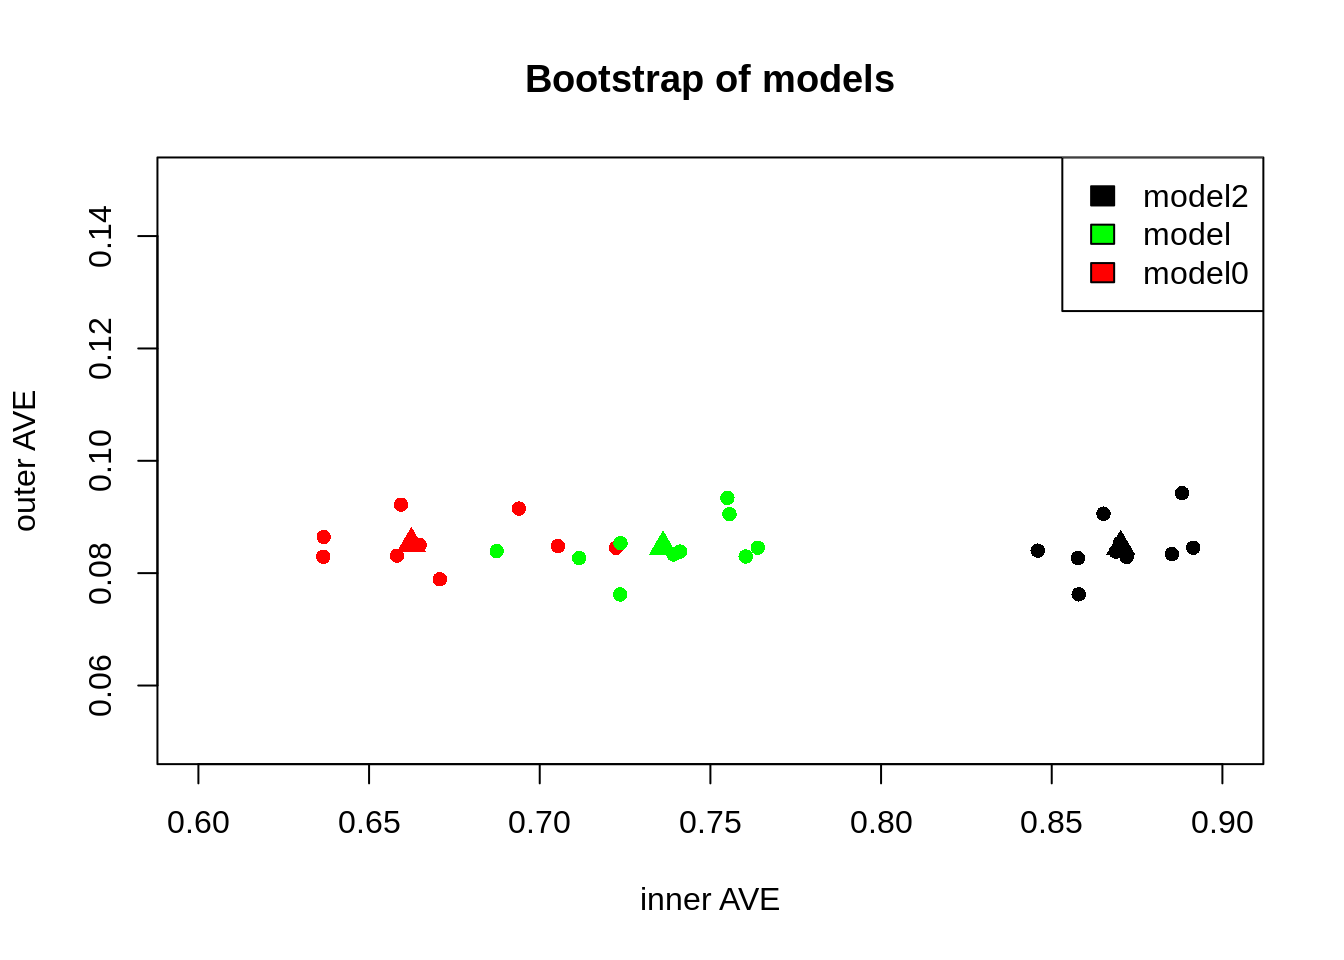
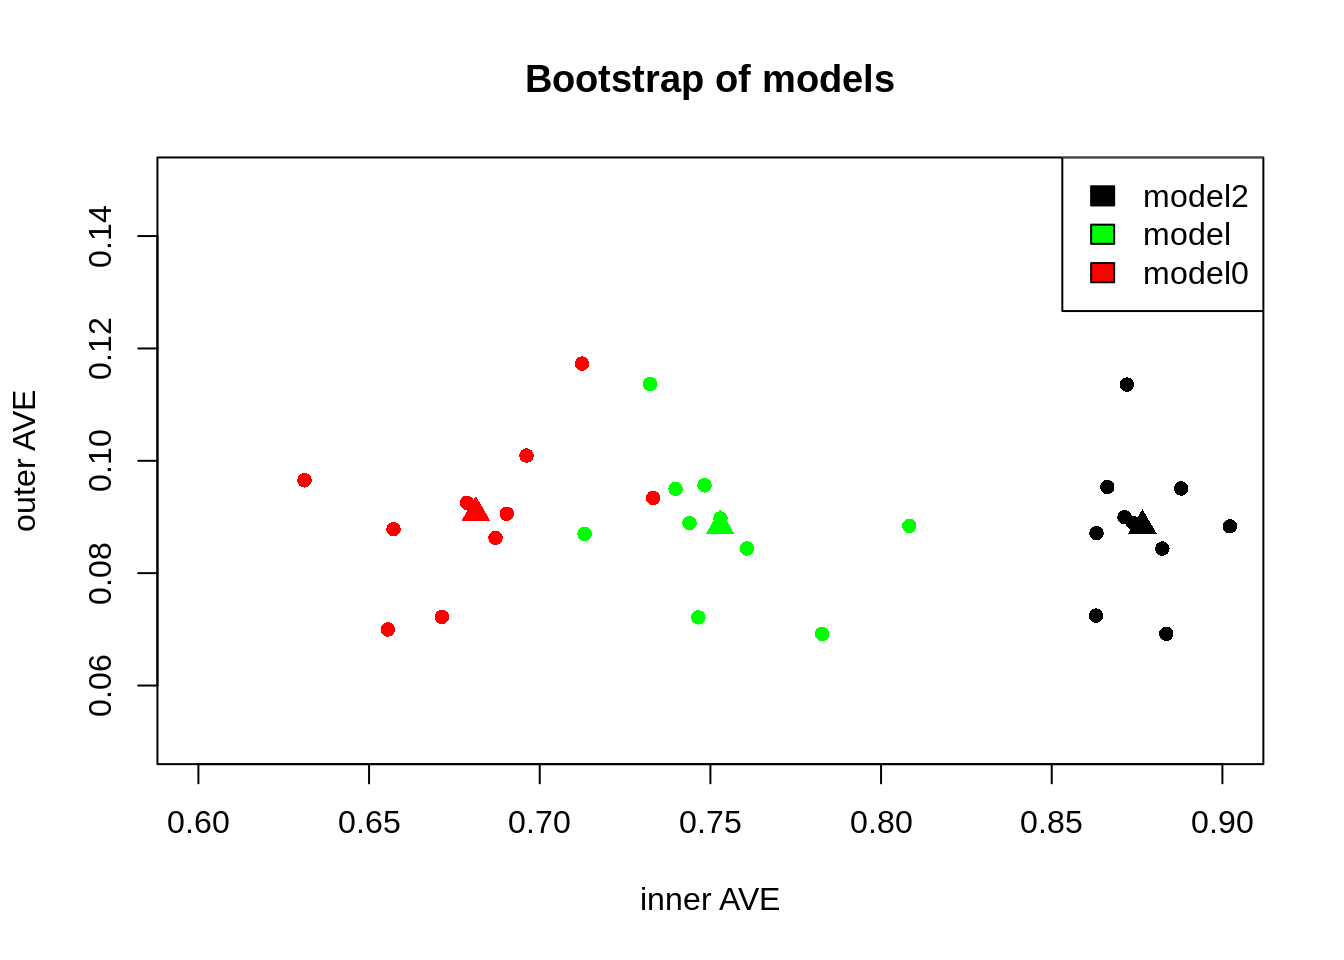
Built site for inteRmodel: 0.1.1@00c8be7

diff --git a/articles/inteRmodel.html b/articles/inteRmodel.html
@@ -194,11 +194,7 @@ Figure 2: Histogram of the different inner AVE values of the same model but with
 <a href="#evaluate-stability" class="anchor"></a><span class="header-section-number">3.4</span> Evaluate stability</h2>
 <p>A next step would be to see if some models are better than the others, something along these lines but with more iterations.</p>
 <div class="sourceCode" id="cb8"><pre class="downlit">
-<span class="kw">iterations</span> <span class="op">&lt;-</span> <span class="fl">10</span>
-<span class="kw">index</span> <span class="op">&lt;-</span> <span class="fu"><a href="https://rdrr.io/r/base/vector.html">vector</a></span>(<span class="st">"list"</span>, length = <span class="kw">iterations</span>)
-<span class="co">for</span> (<span class="kw">i</span> <span class="co">in</span> <span class="fu"><a href="https://rdrr.io/r/base/seq.html">seq_len</a></span>(<span class="kw">iterations</span>)) {
-  <span class="kw">index</span>[[<span class="kw">i</span>]] <span class="op">&lt;-</span> <span class="fu"><a href="https://rdrr.io/r/base/sample.html">sample</a></span>(<span class="fu"><a href="https://rdrr.io/r/base/nrow.html">nrow</a></span>(<span class="kw">A</span>[[<span class="fl">1</span>]]), replace = <span class="fl">TRUE</span>)
-}
+<span class="kw">index</span> <span class="op">&lt;-</span> <span class="fu"><a href="../reference/boot_index.html">boot_index</a></span>(<span class="fu"><a href="https://rdrr.io/r/base/nrow.html">nrow</a></span>(<span class="kw">A</span>[[<span class="fl">1</span>]]), <span class="fl">10</span>)
 <span class="kw">bs0</span> <span class="op">&lt;-</span> <span class="fu"><a href="../reference/boot_samples_sgcca.html">boot_index_sgcca</a></span>(<span class="kw">index</span>, A = <span class="kw">A</span>, C = <span class="kw">model0</span>, c1 = <span class="fu"><a href="https://rdrr.io/r/base/c.html">c</a></span>(<span class="fl">.071</span>,<span class="fl">.2</span>, <span class="fl">1</span>))
 <span class="kw">bs1</span> <span class="op">&lt;-</span> <span class="fu"><a href="../reference/boot_samples_sgcca.html">boot_index_sgcca</a></span>(<span class="kw">index</span>, A = <span class="kw">A</span>, C = <span class="kw">model</span>, c1 = <span class="fu"><a href="https://rdrr.io/r/base/c.html">c</a></span>(<span class="fl">.071</span>,<span class="fl">.2</span>, <span class="fl">1</span>))
 <span class="kw">bs2</span> <span class="op">&lt;-</span> <span class="fu"><a href="../reference/boot_samples_sgcca.html">boot_index_sgcca</a></span>(<span class="kw">index</span>, A = <span class="kw">A</span>, C = <span class="kw">model2</span>, c1 = <span class="fu"><a href="https://rdrr.io/r/base/c.html">c</a></span>(<span class="fl">.071</span>,<span class="fl">.2</span>, <span class="fl">1</span>))
@@ -248,12 +244,12 @@ Figure 3: Comparison of the models, our null hypothesis along the model with hig
 <span class="fu"><a href="https://rdrr.io/r/graphics/plot.default.html">plot</a></span>(<span class="kw">m0</span><span class="op">$</span><span class="kw">Y</span>[[<span class="fl">1</span>]][, <span class="fl">1</span>], <span class="kw">m0</span><span class="op">$</span><span class="kw">Y</span>[[<span class="fl">2</span>]][, <span class="fl">1</span>], type = <span class="st">"n"</span>, xlab = <span class="st">"Block1 Comp1"</span>, 
      ylab = <span class="st">"Block2 Comp1"</span>, main = <span class="st">"Initial model"</span>)
 <span class="fu"><a href="https://rdrr.io/r/graphics/abline.html">abline</a></span>(h = <span class="fl">0</span>, v = <span class="fl">0</span>)
-<span class="fu"><a href="https://rdrr.io/r/graphics/text.html">text</a></span>(<span class="kw">m0</span><span class="op">$</span><span class="kw">Y</span>[[<span class="fl">1</span>]][, <span class="fl">1</span>], <span class="kw">m0</span><span class="op">$</span><span class="kw">Y</span>[[<span class="fl">2</span>]][, <span class="fl">1</span>], labels = <span class="kw">Loc</span>, col = <span class="fu"><a href="https://rdrr.io/r/base/numeric.html">as.numeric</a></span>(<span class="kw">Loc</span>)<span class="op">+</span><span class="fl">1</span>)
+<span class="fu"><a href="https://rdrr.io/r/graphics/text.html">text</a></span>(<span class="kw">m0</span><span class="op">$</span><span class="kw">Y</span>[[<span class="fl">1</span>]][, <span class="fl">1</span>], <span class="kw">m0</span><span class="op">$</span><span class="kw">Y</span>[[<span class="fl">2</span>]][, <span class="fl">1</span>], labels = <span class="kw">Loc</span>, col = <span class="fu"><a href="https://rdrr.io/r/base/numeric.html">as.numeric</a></span>(<span class="kw">Loc</span>) <span class="op">+</span> <span class="fl">1</span>)
 
 <span class="fu"><a href="https://rdrr.io/r/graphics/plot.default.html">plot</a></span>(<span class="kw">m2</span><span class="op">$</span><span class="kw">Y</span>[[<span class="fl">1</span>]][, <span class="fl">1</span>], <span class="kw">m2</span><span class="op">$</span><span class="kw">Y</span>[[<span class="fl">2</span>]][, <span class="fl">1</span>], type = <span class="st">"n"</span>, xlab = <span class="st">"Block1 Comp1"</span>, 
      ylab = <span class="st">"Block2 Comp1"</span>, main = <span class="st">"Final model"</span>)
 <span class="fu"><a href="https://rdrr.io/r/graphics/abline.html">abline</a></span>(h = <span class="fl">0</span>, v = <span class="fl">0</span>)
-<span class="fu"><a href="https://rdrr.io/r/graphics/text.html">text</a></span>(<span class="kw">m2</span><span class="op">$</span><span class="kw">Y</span>[[<span class="fl">1</span>]][, <span class="fl">1</span>], <span class="kw">m2</span><span class="op">$</span><span class="kw">Y</span>[[<span class="fl">2</span>]][, <span class="fl">1</span>], labels = <span class="kw">Loc</span>, col = <span class="fu"><a href="https://rdrr.io/r/base/numeric.html">as.numeric</a></span>(<span class="kw">Loc</span>)<span class="op">+</span><span class="fl">1</span>)
+<span class="fu"><a href="https://rdrr.io/r/graphics/text.html">text</a></span>(<span class="kw">m2</span><span class="op">$</span><span class="kw">Y</span>[[<span class="fl">1</span>]][, <span class="fl">1</span>], <span class="kw">m2</span><span class="op">$</span><span class="kw">Y</span>[[<span class="fl">2</span>]][, <span class="fl">1</span>], labels = <span class="kw">Loc</span>, col = <span class="fu"><a href="https://rdrr.io/r/base/numeric.html">as.numeric</a></span>(<span class="kw">Loc</span>) <span class="op">+</span> <span class="fl">1</span>)
 </pre></div>
 <div class="figure">
 <img src="inteRmodel_files/figure-html/m1-1.png" alt="Figure 4: Differences on the canonical dimensions of the samples" width="672"><p class="caption">
@@ -309,8 +305,8 @@ Figure 5: Comparison of the weights of the CGH variables
 <span class="co">#&gt; [1] inteRmodel_0.1.1     knitcitations_1.0.10</span>
 <span class="co">#&gt; </span>
 <span class="co">#&gt; loaded via a namespace (and not attached):</span>
-<span class="co">#&gt;  [1] Rcpp_1.0.5        knitr_1.30        xml2_1.3.2        magrittr_1.5     </span>
-<span class="co">#&gt;  [5] MASS_7.3-51.6     lattice_0.20-41   R6_2.5.0          rlang_0.4.8      </span>
+<span class="co">#&gt;  [1] Rcpp_1.0.5        knitr_1.30        xml2_1.3.2        magrittr_2.0.1   </span>
+<span class="co">#&gt;  [5] MASS_7.3-51.6     lattice_0.20-41   R6_2.5.0          rlang_0.4.9      </span>
 <span class="co">#&gt;  [9] bibtex_0.4.2.3    stringr_1.4.0     httr_1.4.2        highr_0.8        </span>
 <span class="co">#&gt; [13] plyr_1.8.6        tools_4.0.2       grid_4.0.2        xfun_0.19        </span>
 <span class="co">#&gt; [17] RGCCA_2.1.2       htmltools_0.5.0   yaml_2.2.1        digest_0.6.27    </span>
@@ -322,7 +318,9 @@ Figure 5: Comparison of the weights of the CGH variables
 <div id="bibliography" class="section level1">
 <h1 class="hasAnchor">
 <a href="#bibliography" class="anchor"></a><span class="header-section-number">6</span> Bibliography</h1>
-<p>[1] A. Tenenhaus and M. Tenenhaus. “Regularized Generalized Canonical Correlation Analysis”. In: <em>Psychometrika</em> 76.2 (Mar. 2011), pp. 257-284. DOI: 10.1007/s11336-011-9206-8. &lt;URL: <a href="https://doi.org/10.1007/s11336-011-9206-8" class="uri">https://doi.org/10.1007/s11336-011-9206-8</a>&gt;.</p>
+<p>
+<a id="bib-Tenenhaus_2011"></a><a href="#cite-Tenenhaus_2011">[1]</a><cite> A. Tenenhaus and M. Tenenhaus. “Regularized Generalized Canonical Correlation Analysis”. In: <em>Psychometrika</em> 76.2 (Mar. 2011), pp. 257–284. DOI: <a href="https://doi.org/10.1007/s11336-011-9206-8">10.1007/s11336-011-9206-8</a>. URL: <a href="https://doi.org/10.1007/s11336-011-9206-8">https://doi.org/10.1007/s11336-011-9206-8</a>.</cite>
+</p>
 </div>
   </div>
 

diff --git a/reference/boot_index.html b/reference/boot_index.html
@@ -6,7 +6,7 @@
 <meta http-equiv="X-UA-Compatible" content="IE=edge">
 <meta name="viewport" content="width=device-width, initial-scale=1.0">
 
-<title>Function reference • inteRmodel</title>
+<title>Create index for the samples — boot_index • inteRmodel</title>
 
 
 <!-- jquery -->
@@ -39,7 +39,9 @@
 
 
 
-<meta property="og:title" content="Function reference" />
+<meta property="og:title" content="Create index for the samples — boot_index" />
+<meta property="og:description" content="Helper function for the easy creation of an index to bootstrap.
+Each element has the same number of samples." />
 
 
 
@@ -58,7 +60,7 @@
   </head>
 
   <body data-spy="scroll" data-target="#toc">
-    <div class="container template-reference-index">
+    <div class="container template-reference-topic">
       <header>
       <div class="navbar navbar-default navbar-fixed-top" role="navigation">
   <div class="container">
@@ -108,126 +110,52 @@
       </header>
 
 <div class="row">
-  <div class="contents col-md-9">
+  <div class="col-md-9 contents">
     <div class="page-header">
-      <h1>Reference</h1>
+    <h1>Create index for the samples</h1>
+    <small class="dont-index">Source: <a href='https://github.com/llrs/inteRmodel/blob/master/R/boot_rgcca.R'><code>R/boot_rgcca.R</code></a></small>
+    <div class="hidden name"><code>boot_index.Rd</code></div>
     </div>
 
-    <table class="ref-index">
+    <div class="ref-description">
+    <p>Helper function for the easy creation of an index to bootstrap.
+Each element has the same number of samples.</p>
+    </div>
 
-    <colgroup>
-      
-      <col class="alias" />
-      <col class="title" />
-    </colgroup>
+    <pre class="usage"><span class='fu'>boot_index</span>(<span class='kw'>samples</span>, <span class='kw'>boots</span>)</pre>
 
-    <tbody>
-      <tr>
-        <th colspan="2">
-          <h2 id="section-all-functions" class="hasAnchor"><a href="#section-all-functions" class="anchor"></a>All functions</h2>
-          <p class="section-desc"></p>
-        </th>
-      </tr>
-      
-      
-    </tbody><tbody>
-      
-      
-      <tr>
-        
-        <td>
-          <p><code><a href="analyze.html">analyze()</a></code> </p>
-        </td>
-        <td><p>Analyze a sgcca object</p></td>
-      </tr><tr>
-        
-        <td>
-          <p><code><a href="aves.html">aves()</a></code> </p>
-        </td>
-        <td><p>Method to simplify AVE</p></td>
-      </tr><tr>
-        
-        <td>
-          <p><code><a href="boot.html">boot_samples_sgcca()</a></code> <code><a href="boot.html">boot_index_sgcca()</a></code> </p>
-        </td>
-        <td><p>Bootstrap sgcca</p></td>
-      </tr><tr>
-        
-        <td>
-          <p><code><a href="boot_index.html">boot_index()</a></code> </p>
-        </td>
-        <td><p>Create index for the samples</p></td>
-      </tr><tr>
-        
-        <td>
-          <p><code><a href="cca_rgcca.html">cca_rgcca()</a></code> </p>
-        </td>
-        <td><p>Canonical correlations and covariates</p></td>
-      </tr><tr>
-        
-        <td>
-          <p><code><a href="correct.html">correct()</a></code> </p>
-        </td>
-        <td><p>Check that the design is fully connected</p></td>
-      </tr><tr>
-        
-        <td>
-          <p><code><a href="ge_cgh_locIGR.html">ge_cgh_locIGR</a></code> </p>
-        </td>
-        <td><p>Data from GE CGH and location</p></td>
-      </tr><tr>
-        
-        <td>
-          <p><code><a href="improve.html">improve()</a></code> </p>
-        </td>
-        <td><p>Improve the information on sgcca classes</p></td>
-      </tr><tr>
-        
-        <td>
-          <p><code><a href="looIndex.html">looIndex()</a></code> </p>
-        </td>
-        <td><p>Indexes without one sample</p></td>
-      </tr><tr>
-        
-        <td>
-          <p><code><a href="model.html">iterate_model()</a></code> <code><a href="model.html">search_model()</a></code> </p>
-        </td>
-        <td><p>Functions related to finding models</p></td>
-      </tr><tr>
-        
-        <td>
-          <p><code><a href="model_RGCCA.html">model_RGCCA()</a></code> </p>
-        </td>
-        <td><p>Prepare metadata data for RGCCA.</p></td>
-      </tr><tr>
-        
-        <td>
-          <p><code><a href="subSymm.html">subSymm()</a></code> </p>
-        </td>
-        <td><p>Substitute in a symmetric matrix</p></td>
-      </tr><tr>
-        
-        <td>
-          <p><code><a href="subsetData.html">subsetData()</a></code> </p>
-        </td>
-        <td><p>Subset a list</p></td>
-      </tr><tr>
-        
-        <td>
-          <p><code><a href="symm.html">symm()</a></code> </p>
-        </td>
-        <td><p>Create symmetric matrix</p></td>
-      </tr><tr>
-        
-        <td>
-          <p><code><a href="weight_design.html">weight_design()</a></code> </p>
-        </td>
-        <td><p>Create design matrices with different weights</p></td>
-      </tr>
-    </tbody>
+    <h2 class="hasAnchor" id="arguments"><a class="anchor" href="#arguments"></a>Arguments</h2>
+    <table class="ref-arguments">
+    <colgroup><col class="name" /><col class="desc" /></colgroup>
+    <tr>
+      <th>samples</th>
+      <td><p>A numeric value of samples.</p></td>
+    </tr>
+    <tr>
+      <th>boots</th>
+      <td><p>A numeric value of bootstraps you want.</p></td>
+    </tr>
     </table>
-  </div>
 
+    <h2 class="hasAnchor" id="value"><a class="anchor" href="#value"></a>Value</h2>
+
+    <p>A list of length [boots] with indices for the samples.</p>
+    <h2 class="hasAnchor" id="see-also"><a class="anchor" href="#see-also"></a>See also</h2>
+
+    <div class='dont-index'><p>[boot_index_sgcca()]</p></div>
+
+    <h2 class="hasAnchor" id="examples"><a class="anchor" href="#examples"></a>Examples</h2>
+    <pre class="examples"><div class='input'><span class='fu'>boot_index</span>(<span class='fl'>10</span>, <span class='fl'>3</span>)
+</div><div class='output co'>#&gt; [[1]]
+#&gt;  [1]  7  5  6  8  7  6 10  8  2  2
+#&gt; 
+#&gt; [[2]]
+#&gt;  [1]  5  5 10  3  5  2  4  9  9  4
+#&gt; 
+#&gt; [[3]]
+#&gt;  [1]  4  8  3  5  7  5 10  6  7 10
+#&gt; </div></pre>
+  </div>
   <div class="col-md-3 hidden-xs hidden-sm" id="pkgdown-sidebar">
     <nav id="toc" data-toggle="toc" class="sticky-top">
       <h2 data-toc-skip>Contents</h2>

diff --git a/reference/boot.html b/reference/boot.html
@@ -156,9 +156,12 @@ input blocks; and the AVE values, both inner, and outer</p>
     <h2 class="hasAnchor" id="details"><a class="anchor" href="#details"></a>Details</h2>
 
     <p><code>boot_index_sgcca</code> Iterate over the index,
-which is a list of vectors with the position of samples to use and use sgcca
+which is a list of vectors with the position of samples to use and use [sgcca]
 with the arguments provided.
-<code>boot_samples_sgcca</code> Iterate over random samples.</p>
+<code>boot_samples_sgcca</code> Iterate over random samples without recording which samples where used.</p>
+    <h2 class="hasAnchor" id="note"><a class="anchor" href="#note"></a>Note</h2>
+
+    <p>Recommended to provide scaled data and the argument [scale = FALSE]</p>
 
     <h2 class="hasAnchor" id="examples"><a class="anchor" href="#examples"></a>Examples</h2>
     <pre class="examples"><div class='input'><span class='fu'><a href='https://rdrr.io/r/utils/data.html'>data</a></span>(<span class='st'>"Russett"</span>, package = <span class='st'>"RGCCA"</span>)
@@ -177,10 +180,7 @@ with the arguments provided.
 #&gt; [4,] 0.4755541 0.6865155
 #&gt; [5,] 0.3604672 0.6768108
 #&gt; [6,] 0.3914483 0.6850278</div><div class='input'><span class='kw'>boots</span> <span class='op'>&lt;-</span> <span class='fl'>10</span>
-<span class='kw'>index</span> <span class='op'>&lt;-</span> <span class='fu'><a href='https://rdrr.io/r/base/vector.html'>vector</a></span>(<span class='st'>"list"</span>, length = <span class='kw'>boots</span>)
-<span class='co'>for</span> (<span class='kw'>i</span> <span class='co'>in</span> <span class='fu'><a href='https://rdrr.io/r/base/seq.html'>seq_len</a></span>(<span class='kw'>boots</span>)) {
-  <span class='kw'>index</span>[[<span class='kw'>i</span>]] <span class='op'>&lt;-</span> <span class='fu'><a href='https://rdrr.io/r/base/sample.html'>sample</a></span>(<span class='fu'><a href='https://rdrr.io/r/base/nrow.html'>nrow</a></span>(<span class='kw'>A</span>[[<span class='fl'>1</span>]]), replace = <span class='fl'>TRUE</span>)
-}
+<span class='kw'>index</span> <span class='op'>&lt;-</span> <span class='fu'><a href='boot_index.html'>boot_index</a></span>(<span class='fu'><a href='https://rdrr.io/r/base/nrow.html'>nrow</a></span>(<span class='kw'>A</span>[[<span class='fl'>1</span>]]), <span class='kw'>boots</span>)
 <span class='kw'>boot_i</span> <span class='op'>&lt;-</span> <span class='fu'>boot_index_sgcca</span>(<span class='kw'>index</span>, A = <span class='kw'>A</span>, C = <span class='kw'>C</span>)
 </div></pre>
   </div>

diff --git a/reference/subsetData.html b/reference/subsetData.html
@@ -149,17 +149,17 @@ remove the variables that are constant.</p>
 <span class='kw'>A</span> <span class='op'>&lt;-</span> <span class='fu'>subsetData</span>(<span class='kw'>ge_cgh_locIGR</span><span class='op'>$</span><span class='kw'>multiblocks</span>, <span class='fu'><a href='https://rdrr.io/r/base/sample.html'>sample</a></span>(<span class='fl'>53</span>, replace = <span class='fl'>TRUE</span>))
 <span class='fu'><a href='https://rdrr.io/r/utils/str.html'>str</a></span>(<span class='kw'>A</span>)
 </div><div class='output co'>#&gt; List of 3
-#&gt;  $ GE : num [1:53, 1:15702] -1.087 1.615 0.925 -0.955 0.294 ...
+#&gt;  $ GE : num [1:53, 1:15702] -0.549 0.925 0.522 0.799 -0.99 ...
 #&gt;   ..- attr(*, "dimnames")=List of 2
-#&gt;   .. ..$ : chr [1:53] "P39" "P48" "P30" "P05" ...
+#&gt;   .. ..$ : chr [1:53] "P26" "P30" "P19" "P29" ...
 #&gt;   .. ..$ : chr [1:15702] "A_23_P212522" "A_32_P30710" "A_24_P470079" "A_23_P65830" ...
-#&gt;  $ CGH: num [1:53, 1:1229] 0.04548 0.0056 -0.00145 0.25107 -0.00421 ...
+#&gt;  $ CGH: num [1:53, 1:1229] 0.009391 -0.001446 -0.003827 -0.000917 -0.001935 ...
 #&gt;   ..- attr(*, "dimnames")=List of 2
-#&gt;   .. ..$ : chr [1:53] "P39" "P48" "P30" "P05" ...
+#&gt;   .. ..$ : chr [1:53] "P26" "P30" "P19" "P29" ...
 #&gt;   .. ..$ : chr [1:1229] "1" "3" "5" "6" ...
-#&gt;  $ y  : num [1:53, 1:3] 1 0 0 1 0 0 0 0 0 1 ...
+#&gt;  $ y  : num [1:53, 1:3] 0 0 0 0 1 0 0 1 0 0 ...
 #&gt;   ..- attr(*, "dimnames")=List of 2
-#&gt;   .. ..$ : chr [1:53] "P39" "P48" "P30" "P05" ...
+#&gt;   .. ..$ : chr [1:53] "P26" "P30" "P19" "P29" ...
 #&gt;   .. ..$ : chr [1:3] "cort" "dipg" "midl"</div></pre>
   </div>
   <div class="col-md-3 hidden-xs hidden-sm" id="pkgdown-sidebar">
